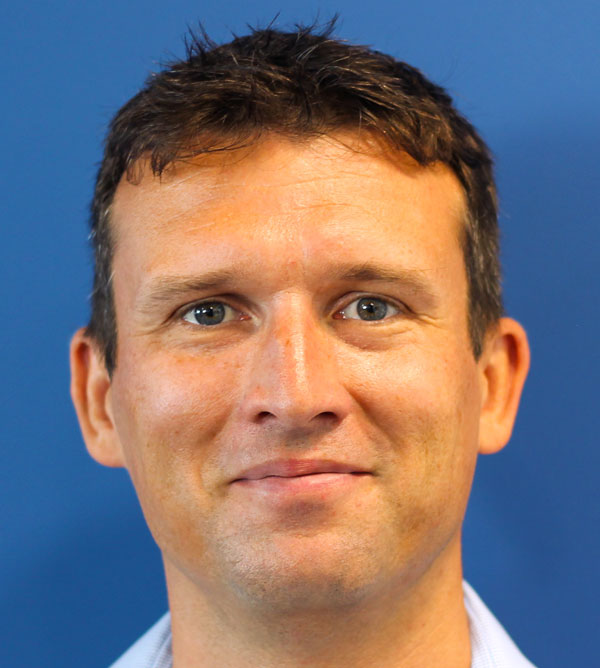
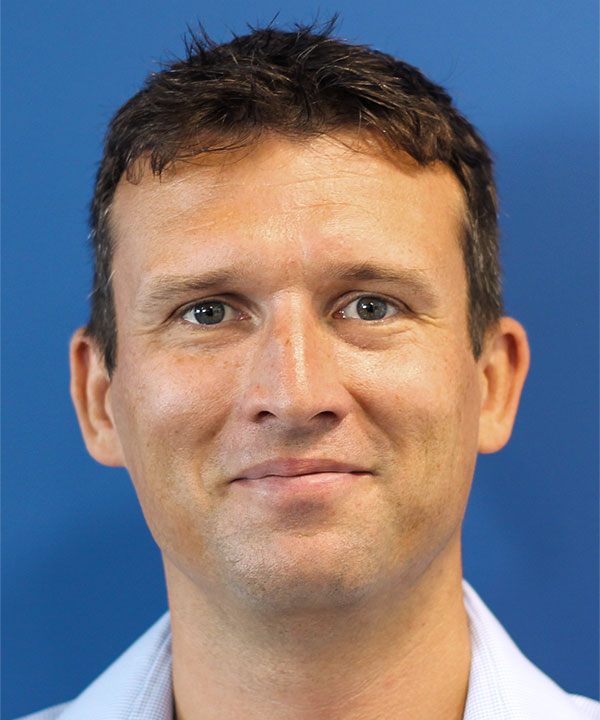
About us member pictures and bio text update.

diff --git a/css/main.css b/css/main.css
@@ -1581,7 +1581,7 @@ a {
   .team__item:nth-child(3n) {
     margin-right: 0; }
 .team__picture {
-  padding-top: 100%;
+  padding-top: 120%;
   margin-bottom: 1.6666666667rem;
   background-color: #e8e8e8;
   background-position: center center;

diff --git a/css/pages/_main.scss b/css/pages/_main.scss
@@ -1697,7 +1697,7 @@ a{
 		margin-bottom: px($desktop-vertical-space / 2);
 	}
 	&__picture{
-		padding-top: 100%;
+		padding-top: 120%;
 		margin-bottom: px(30);
 		background-color: $grey;
 		background-position: center center;

diff --git a/about-us.php b/about-us.php
@@ -54,7 +54,7 @@
                 <div class="team__picture" style="background-image: url(i/team-michal-chovanec.jpg)"></div>
                 <h3 class="heading-2">Michal Chovanec</h3>
                 <p class="heading-3">CTO</p>
-                <p class="paragraph">Michal is an information technology pioneer with over 20 years of experience in managing software development teams in various sectors.  Thanks to his diligent and systematic approach to solving complex problems. Michal with ALOT dev team ensures robustness, security and scalability of ALOT Technology products and services.</p>
+                <p class="paragraph">Michal is an information technology pioneer with over 20 years of experience in managing software development teams in various sectors. Michal with ALOT dev team ensures robustness, security and scalability of ALOT Technology products and services.</p>
             </div>
             <div class="team__item">
                 <div class="team__picture" style="background-image: url(i/team-geaspar-brybe.jpg)"></div>
